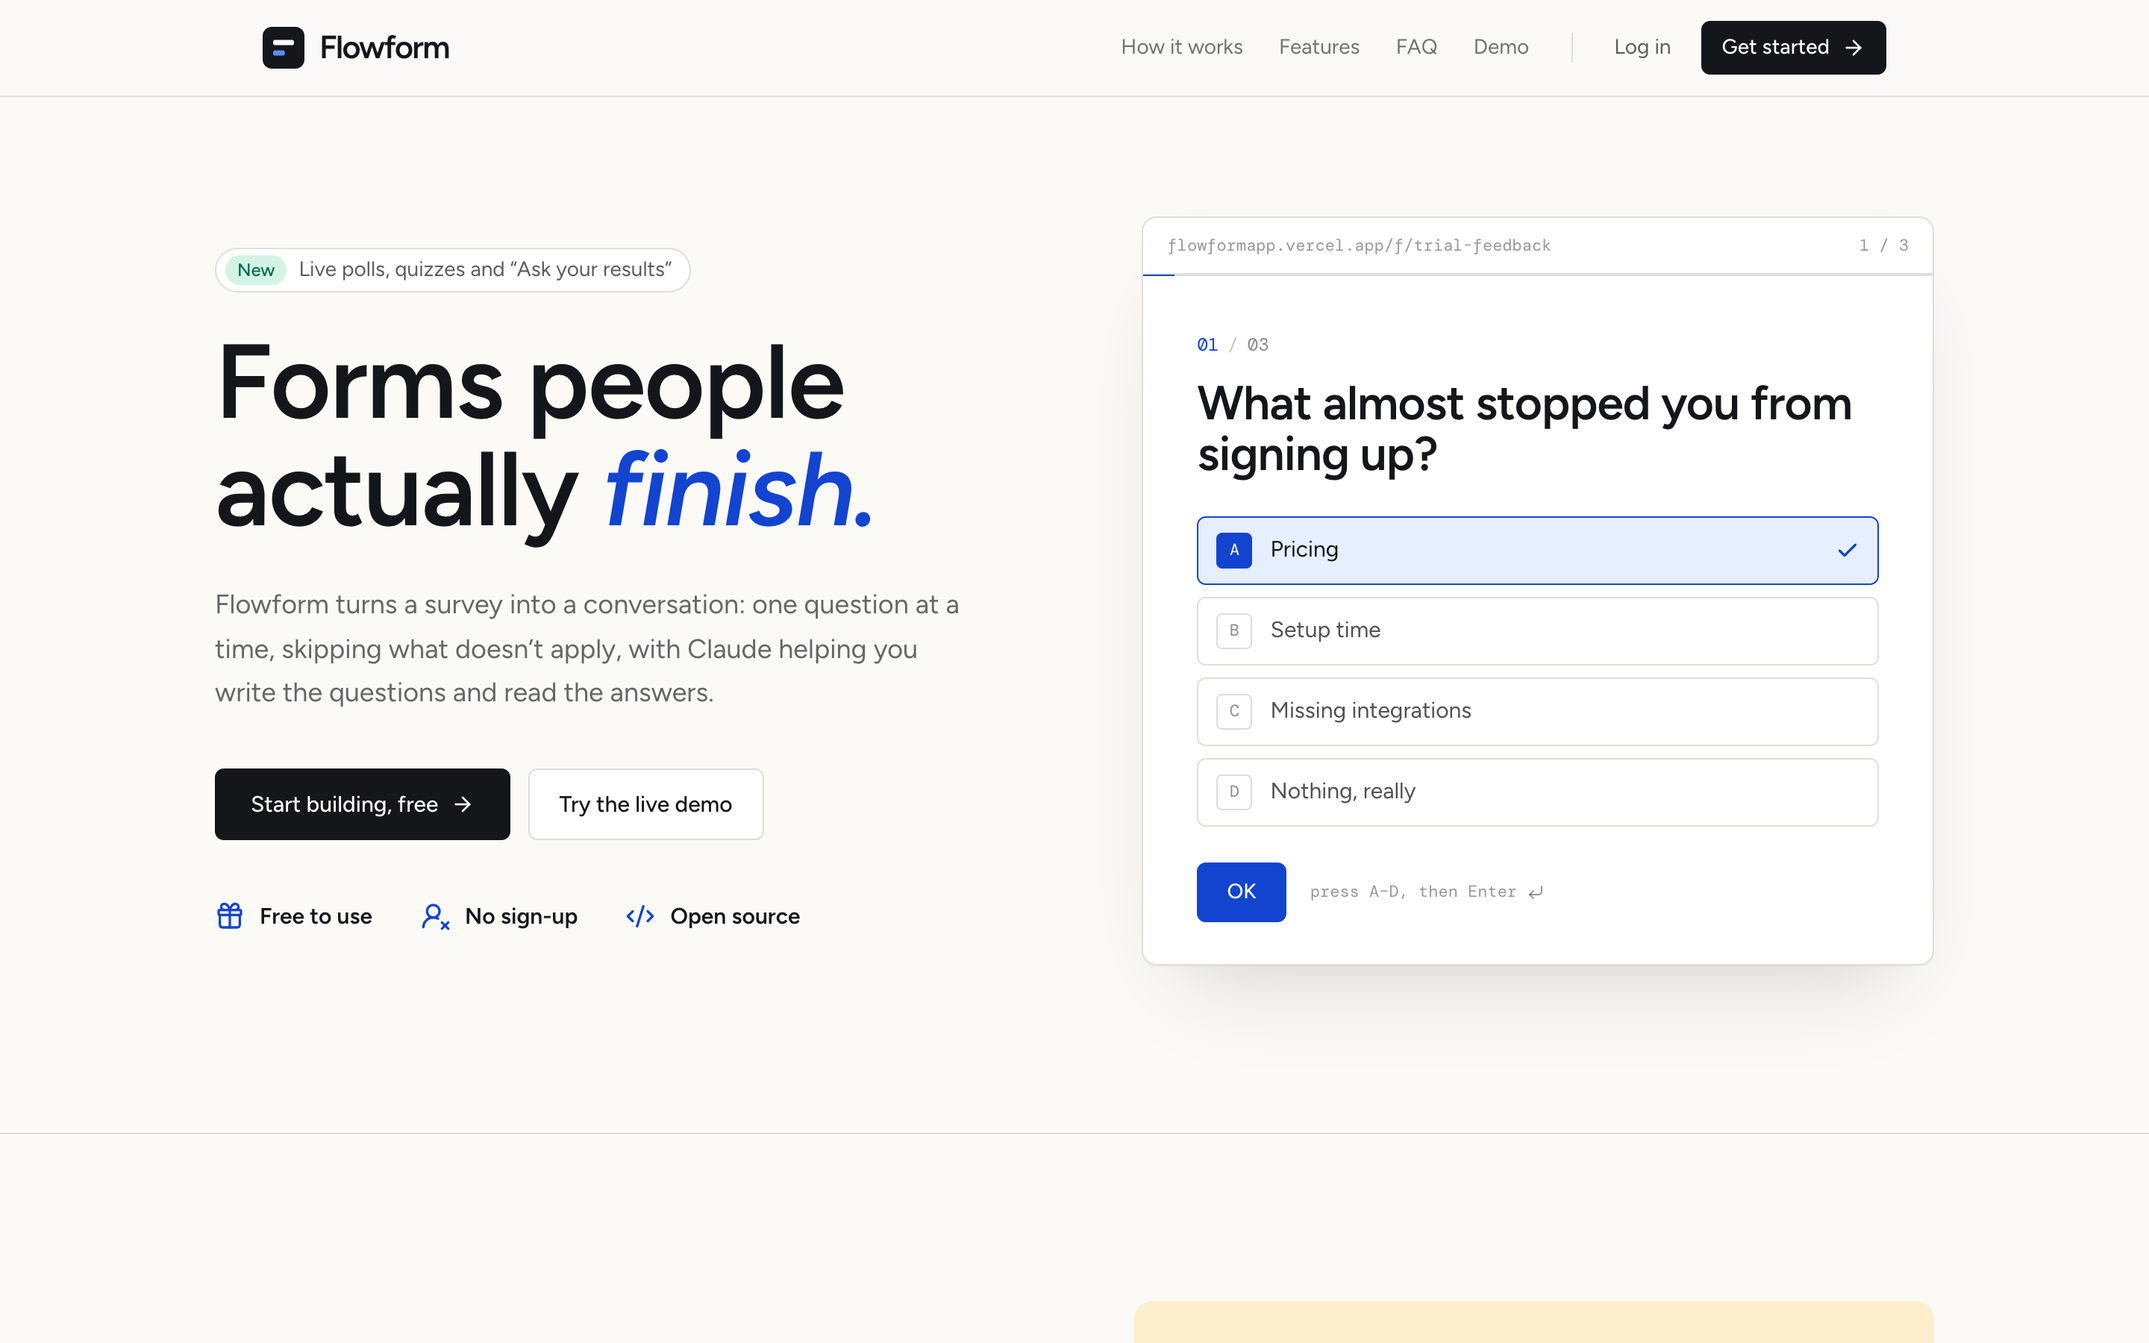
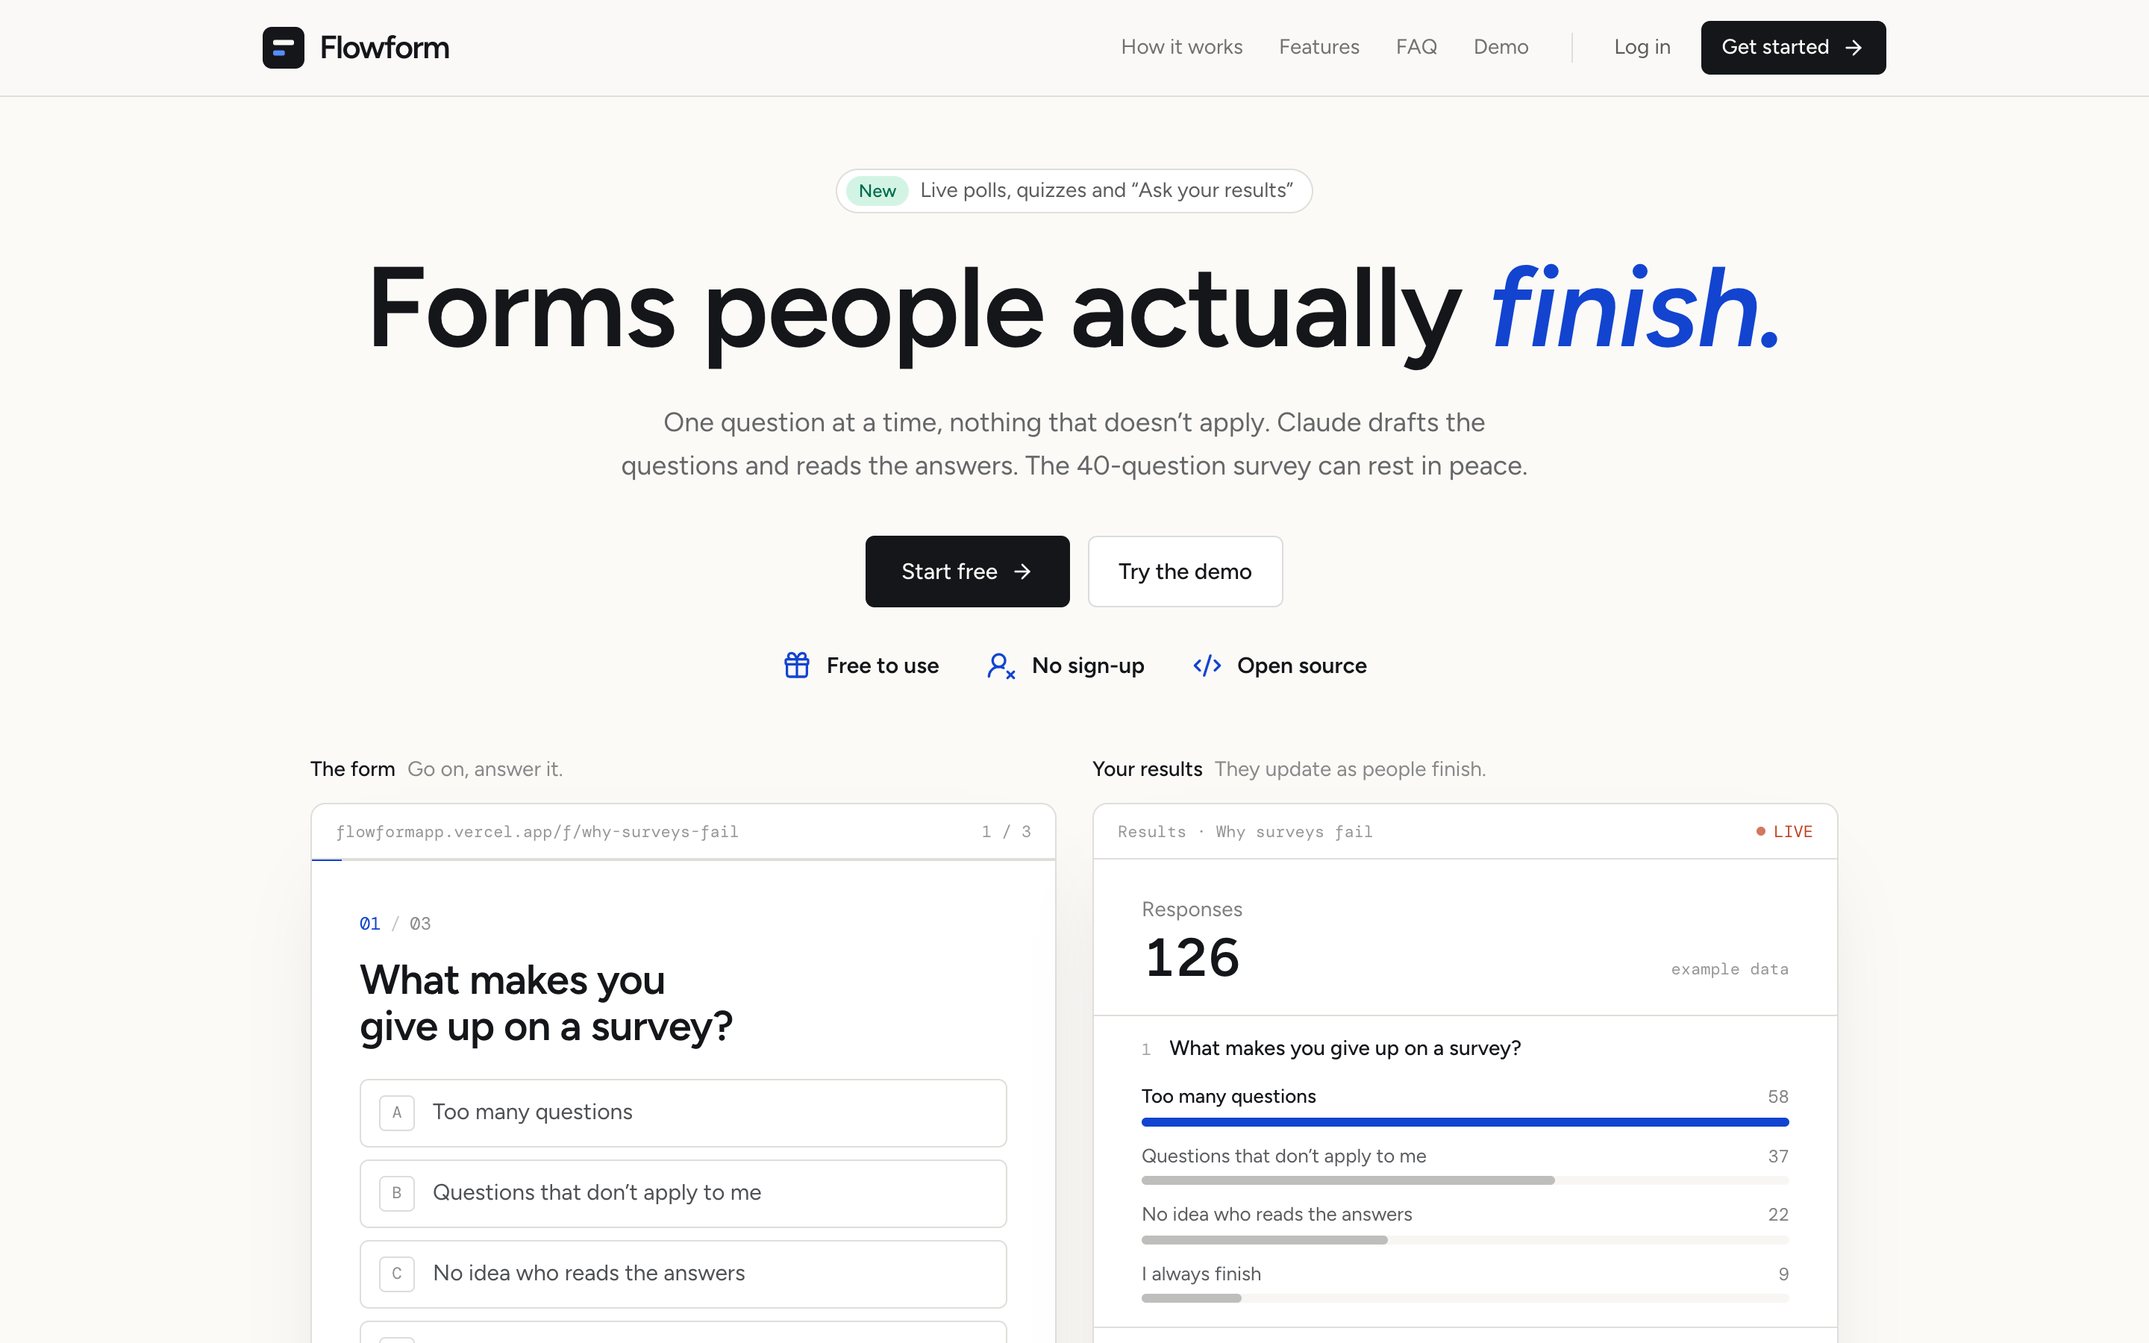
docs: bring the README up to date with the redesign
- Feature list rewritten by stage (Build, Share, Learn, Workspace) to
  cover everything shipped: recall, follow-ups, quizzes, branding,
  versions, Ask your results, live results, teams, guide, dark mode
- New screenshots: landing hero and its demo, dashboard (light and
  dark), editor, live results and the guide; signed-in shots use demo
  data rendered from the real app with a mocked backend
- Tech notes: 42 migrations, Realtime, four Claude features, the
  follow-up ticket guard, tone of voice

diff --git a/README.md b/README.md
@@ -45,28 +45,76 @@ No account needed for the [interactive demo](https://flowformapp.vercel.app/demo
 
 ## Features
 
-| | Feature | What it does |
-|---|---|---|
-| `01` | **Drag-and-drop builder** | 7 question types: short & long text, single/multi choice, dropdown, yes/no, NPS and rating scales. Start from a template or a blank form, with a live preview of what respondents see. |
-| `02` | **AI question drafting** | Give the form a title and goal and Claude (Sonnet 5.5) drafts five to eight questions, each with the right type and answer options. Add the ones you want with one click and edit anything. |
-| `03` | **Conditional logic** | Forward-only jump rules ("if they answer X, skip to…") in both conversational and one-page forms, with path-aware validation so a required question a respondent never sees can't block them. |
-| `04` | **Conversational mode** | One question at a time with a progress bar, keyboard shortcuts (Enter to confirm, A–Z or Y/N to pick, 0–9 to score) and back-navigation. Or a **classic** all-on-one-page mode. |
-| `05` | **Partial responses** | Answers are saved as they're given, before submit, so a respondent can come back and finish, and the owner sees exactly which question unfinished respondents left on. |
-| `06` | **Analytics dashboard** | A real funnel (opened → started → completed), completion rate, average time-to-fill, per-question drop-off from real sessions, a response trend over 7/30/90 days, and a spreadsheet-style table of individual responses. |
-| `07` | **AI response summaries** | Claude reads every open-text answer and returns the main themes (with how common each was), the overall sentiment and verbatim quotes, and says so when there's too little data to be confident. |
-| `08` | **Sharing & export** | Shareable link, QR code, embed snippet, native share and CSV export. |
+**Build**
+
+| Feature | What it does |
+|---|---|
+| **Question builder** | 7 question types: short and long text, single or multi choice, dropdown, Yes / No, NPS and rating scales. Drag to reorder, start from a template or a blank form, and preview exactly what respondents see. |
+| **Drafted by Claude** | Give the form a title and goal and Claude (Sonnet 5.5) drafts five to eight questions, each with the right type and options. Add the ones you want with one click. |
+| **Logic jumps** | Forward-only rules ("if they answer X, skip to…") in both one-at-a-time and one-page forms. A required question someone never sees can't block them. |
+| **Answer recall** | Name an answer and reuse it later: "Thanks, {name}. What should we fix first?" Hidden fields from the link work the same way. |
+| **Follow-up questions by Claude** | When a written answer is short or vague, Claude asks one optional follow-up before moving on. Rate-limited server-side. |
+| **Quiz mode** | Points per choice, a score at the end, and outcomes matched to score ranges. |
+| **Branding** | Per-form accent colour, font and cover image; a custom thank-you message or a redirect after submit. |
+
+**Share**
+
+| Feature | What it does |
+|---|---|
+| **Conversational or classic** | One question at a time with a progress bar and keyboard shortcuts (Enter, A–Z, Y/N, 0–9), or every question on one page. |
+| **Link, QR, embed** | Short link, QR code, embed snippet, native share. Hidden fields and UTM tags show which link brought each response. |
+| **Safe editing** | A live form is locked so answers stay comparable. Once it has responses, update it as a new version under the same link; earlier answers are kept and can be compared side by side. |
+| **One response each** | One response per form per network (hashed IP), enforced in the database. |
+
+**Learn**
+
+| Feature | What it does |
+|---|---|
+| **Results** | Funnel (opened → started → completed), completion rate, time to fill, a trend over 7/30/90 days and a chart for every question, computed in Postgres over every response. |
+| **Real drop-off** | Answers are saved as they're given, so you see the exact question unfinished respondents left on, and they can come back and finish. |
+| **Summaries by Claude** | Claude reads every open answer and returns themes (with how common each is), sentiment and quotes, and says when there's too little data. |
+| **Ask your results** | Ask a question in plain English ("What do detractors complain about?"); Claude answers from the data and links to the responses behind it. |
+| **Live results** | A full-screen presenter view that updates in real time (Supabase Realtime), with a QR code so the room can join. |
+| **Export** | CSV of every response, a printable PDF report, and a spreadsheet-style table view. |
+
+**Workspace**
+
+| Feature | What it does |
+|---|---|
+| **One app shell** | A sidebar on every signed-in page: workspace switcher, New form, search (⌘K), Forms / Team / Settings / Guide and your categories. Every form page has Build / Results / Present tabs. |
+| **Dashboard** | Overview numbers and trend for the workspace, suggested next steps, and the forms list as a list, cards or a drag-and-drop board, with search, filters and categories kept in the URL. |
+| **Teams and roles** | Invite people as admin, editor or viewer. Every permission is enforced by row-level security, not just hidden in the UI. |
+| **Guide** | An in-app page listing every feature and the exact click path to it. |
+| **Dark mode** | Light, dark or system, saved to the account and applied before first paint. Logged-out pages are always light. |
 
 ### The landing page
 
-The hero card is a working three-question form with a real jump rule; further down, the Build and
-Learn sections have hands-on demos of the two AI features.
+The page is the demo. On the left, a working three-question form with a real jump rule; on the
+right, the results the form's owner sees. Example answers keep arriving, and when you finish,
+your own response lands in the results.
 
 ![Flowform landing page](docs/screenshots/landing.png)
 
-### Drafting questions with Claude
+![The landing demo after answering](docs/screenshots/landing-demo.png)
 
-Real output in the editor for a form titled "Customer feedback survey": eight questions, each with
-its type picked. Nothing is added until you click Add.
+### The dashboard
+
+Every signed-in page shares one sidebar. The dashboard leads with the workspace's numbers and
+what to do next, then the forms themselves.
+
+![Dashboard](docs/screenshots/dashboard.png)
+
+![Dashboard in dark mode](docs/screenshots/dashboard-dark.png)
+
+### Building a form
+
+Questions are the main column; settings for the whole form sit beside them, and each question
+ends in one row of its own options. This form has responses, so its questions are locked.
+
+![The form editor](docs/screenshots/editor.png)
+
+Claude's question drafts, real output for a form titled "Customer feedback survey". Nothing is
+added until you click Add.
 
 ![Claude question suggestions in the editor](docs/screenshots/ai-suggestions.png)
 
@@ -78,11 +126,27 @@ One question at a time, set as a headline, with lettered options you can pick by
 
 ### Reading the results
 
-The responses dashboard for a real form: headline metrics, then Claude's summary of the open
-answers with themes, sentiment and quotes. It even flags the placeholder test answers rather than
-reading meaning into them. Funnel, trend, drop-off and per-question charts follow below.
+Headline metrics, "Ask your results", and Claude's summary of the open answers with themes,
+sentiment and quotes. It even flags placeholder test answers rather than reading meaning into
+them.
 
 ![Analytics with the Claude summary](docs/screenshots/analytics.png)
+
+### Presenting live
+
+The presenter view for talks and workshops: results update as answers arrive, and the room
+joins with the QR code.
+
+![Live results view](docs/screenshots/live.png)
+
+### The guide
+
+Every feature, what it does, and where to find it.
+
+![In-app guide](docs/screenshots/guide.png)
+
+> Dashboard, editor, live and guide screenshots use demo data, rendered from the real app with a
+> mocked backend; the AI and results screenshots come from the signed-in production app.
 
 ## Design
 
@@ -94,7 +158,9 @@ work.
 |---|---|
 | **Type** | [Figtree](https://fonts.google.com/specimen/Figtree) throughout, an open, rounded sans chosen for readability: semibold for headlines and questions, regular for interface text, with [DM Mono](https://fonts.google.com/specimen/DM+Mono) for labels, counters and numbers |
 | **Colour** | Ink `#14161A` on paper `#FBFAF7`, with one Klein-style blue (`#1244D0`) reserved for actions, selection, focus and live data. The landing page adds soft sky, sun, coral and mint tints behind its product demos |
-| **Marks** | The logo is an ink tile with two "answer bars"; the Build / Branch / Learn icons are drawn from the same shapes rather than a stock icon set |
+| **Marks** | The logo is an ink tile with two "answer bars"; the Build / Branch / Learn / Present icons are drawn from the same shapes rather than a stock icon set |
+| **Themes** | Every colour token has a dark value; the theme is applied before first paint, so there's no flash |
+| **Voice** | One tone across every page: short, plain and exact, with at most one dry joke per screen and none on errors, legal pages or anything respondents see. Rules in [docs/voice.md](docs/voice.md) |
 | **Shape** | Tight 6–8 px radii, 1 px hairline borders, one soft shadow for floating "product sheets" only |
 | **Motion** | A single step transition between questions; respects `prefers-reduced-motion` |
 | **Tokens** | All colours are `oklch` custom properties in [src/styles.css](src/styles.css), mapped to Tailwind utilities |
@@ -114,8 +180,8 @@ flowchart LR
 |---|---|
 | **Frontend** | [TanStack Start](https://tanstack.com/start) (file-based routing, SSR), React 19, Tailwind CSS 4 with `oklch` design tokens, shadcn/ui on Radix primitives, dnd-kit for drag-and-drop, Recharts for analytics |
 | **Backend** | TanStack Start server functions running as Vercel serverless functions via Nitro; Zod validation on AI input and output |
-| **Database** | Supabase Postgres with row-level security on every table, 24 versioned SQL migrations, transactional RPCs for editor saves and analytics, `CHECK` constraints on JSON shapes |
-| **AI** | Anthropic Claude Sonnet 5.5 for question suggestions and open-text summaries, called only from server functions, with refusal fallback and Zod-validated output |
+| **Database** | Supabase Postgres with row-level security on every table, 42 versioned SQL migrations, Realtime for the live view, transactional RPCs for editor saves and analytics, `CHECK` constraints on JSON shapes |
+| **AI** | Anthropic Claude Sonnet 5.5 for question drafts, follow-up questions, open-text summaries and "Ask your results", called only from server functions, with refusal fallback and Zod-validated output; the public follow-up endpoint needs a single-use, rate-limited ticket |
 | **Auth** | Supabase Auth: email verification with branded emails, password reset, email change, 10-minute idle auto-logout |
 | **Automation** | Postgres trigger + `pg_net` posts a Slack alert on each confirmed signup (webhook URL kept in Vault); GitHub Actions runs CI; a keep-alive write runs from both GitHub Actions and Vercel Cron, and the workflow restores the project through the Management API if it was paused anyway |
 | **Hosting** | Vercel, deployed from `main`; Bun for installs and scripts |
@@ -126,8 +192,9 @@ flowchart LR
   scoped by workspace role (owner, admin, editor, viewer), public form filling is scoped by policy,
   and a pgTAP suite in CI checks each role's access. There is deliberately **no service-role key** in the app. The publishable key
   plus RLS does all the work, so a leaked client bundle grants nothing.
-- **The Claude API key never reaches the client.** Question suggestions and response summaries run
-  in server functions and read the key from server-side env only.
+- **The Claude API key never reaches the client.** All four Claude features run in server
+  functions and read the key from server-side env only. The public follow-up endpoint is guarded
+  by a single-use, rate-limited ticket from the database, so it can't be used as a free Claude proxy.
 - **Atomic editor saves.** Saving the builder is one transactional `save_form_editor` RPC that
   applies reorders, edits, inserts and deletes in a single round-trip, replacing an N+1 write path
   that could leave a form half-saved. Existing question IDs are preserved, so answers collected
@@ -181,10 +248,10 @@ the pgTAP suite and the Playwright suite run against it.
 ## Project layout
 
 ```
-src/routes/                 file-based routes: landing, demo, auth, dashboard, builder, fill, responses
-src/components/             conversational form, question renderer, share dialog, logo, app shell
+src/routes/                 file-based routes: landing, demo, auth, dashboard, guide, builder, fill, results, live
+src/components/             app shell, form header, conversational form, question renderer, share dialog
 src/components/ui/          shadcn/ui primitives
-src/lib/                    server functions (AI suggestions, summaries), form logic, CSV export
+src/lib/                    server functions (Claude features), form logic, theme, CSV/PDF export
 src/styles.css              design tokens (colour, type, radius) and base styles
 src/integrations/supabase/  typed Supabase client
 supabase/migrations/        schema, RLS policies, RPCs, constraints, triggers
@@ -192,6 +259,7 @@ supabase/tests/database/    pgTAP row-level-security tests
 e2e/                        Playwright end-to-end tests
 .github/workflows/          CI and Supabase keep-alive
 docs/screenshots/           README screenshots
+docs/voice.md               tone of voice
 ```
 
 ## License

diff --git a/docs/screenshots/README.md b/docs/screenshots/README.md
@@ -6,16 +6,24 @@ Static screenshots referenced from the root [README.md](../../README.md). The he
 | File | Used for | Content |
 | --- | --- | --- |
 | `landing.png` | "The landing page" | Landing hero at 1440 × 900 |
-| `ai-suggestions.png` | "Drafting questions with Claude" | Real Claude suggestions in the editor of a draft form |
-| `fill.png` | "Filling a form" | A respondent mid-flow on a multi-select question, two options picked |
-| `analytics.png` | "Reading the results" | Ask your responses, metrics and the Claude summary on a real form's results page |
+| `landing-demo.png` | "The landing page" | The hero demo after answering: the visitor's response in the results |
+| `dashboard.png` | "The dashboard" | Dashboard with the app shell, demo data |
+| `dashboard-dark.png` | "The dashboard" | The same in dark mode |
+| `editor.png` | "Building a form" | Editor of a locked live form, demo data |
+| `ai-suggestions.png` | "Building a form" | Real Claude suggestions in the editor of a draft form |
+| `fill.png` | "Filling a form" | A respondent mid-flow on a multi-select question |
+| `analytics.png` | "Reading the results" | Ask your results, metrics and the Claude summary on a real form |
+| `live.png` | "Presenting live" | Presenter view with an NPS question, demo data |
+| `guide.png` | "The guide" | In-app feature guide |
 
-`landing.png` and `fill.png` are taken at 2× device scale against the local dev server;
-`ai-suggestions.png` and `analytics.png` come from the signed-in production app. Both AI
-features only read data, so generating them for a screenshot changes nothing in the account.
+All at 2× device scale. `landing*.png` and `fill.png` come from the local dev server, signed
+out. `ai-suggestions.png` and `analytics.png` come from the signed-in production app; both AI
+features only read data, so generating them changes nothing in the account.
+
+`dashboard*.png`, `editor.png`, `live.png` and `guide.png` (retaken 2026-11-16) are rendered from
+the local app with Playwright: a fake session in localStorage and every Supabase request answered
+from fixtures, so they show clean demo data and need no login. Realtime is blocked in that setup,
+so the live view's status badge is set to its connected state for the capture.
 
 When capturing a real published form while signed out, block the `record_form_event` and
 `save_response_progress` RPCs so the visit adds no views or partial responses to that form.
-
-All images were retaken on 2026-11-13 after the switch to Figtree + DM Mono; `og-image.png` is
-rendered from an HTML card at 1200 × 630.
